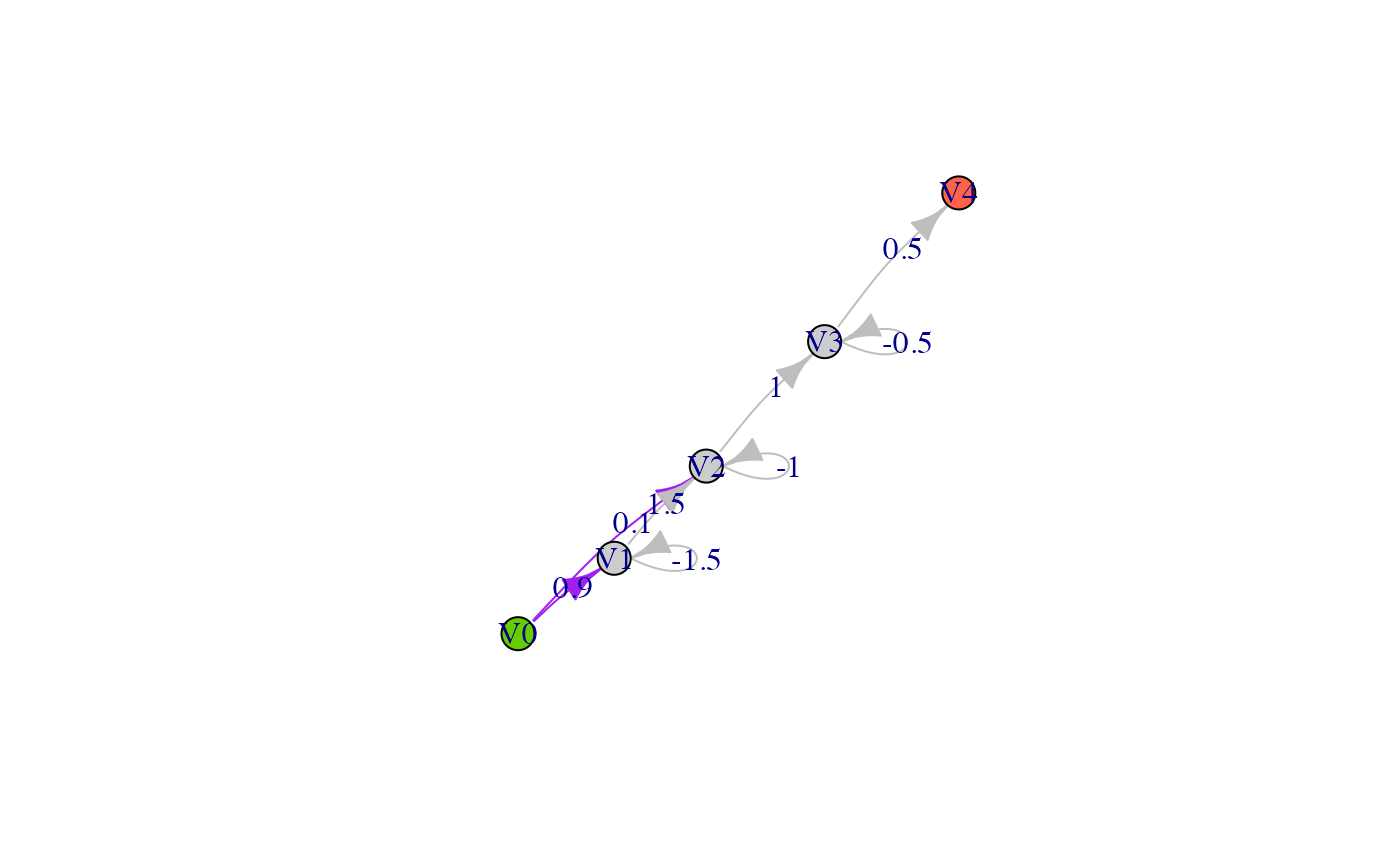
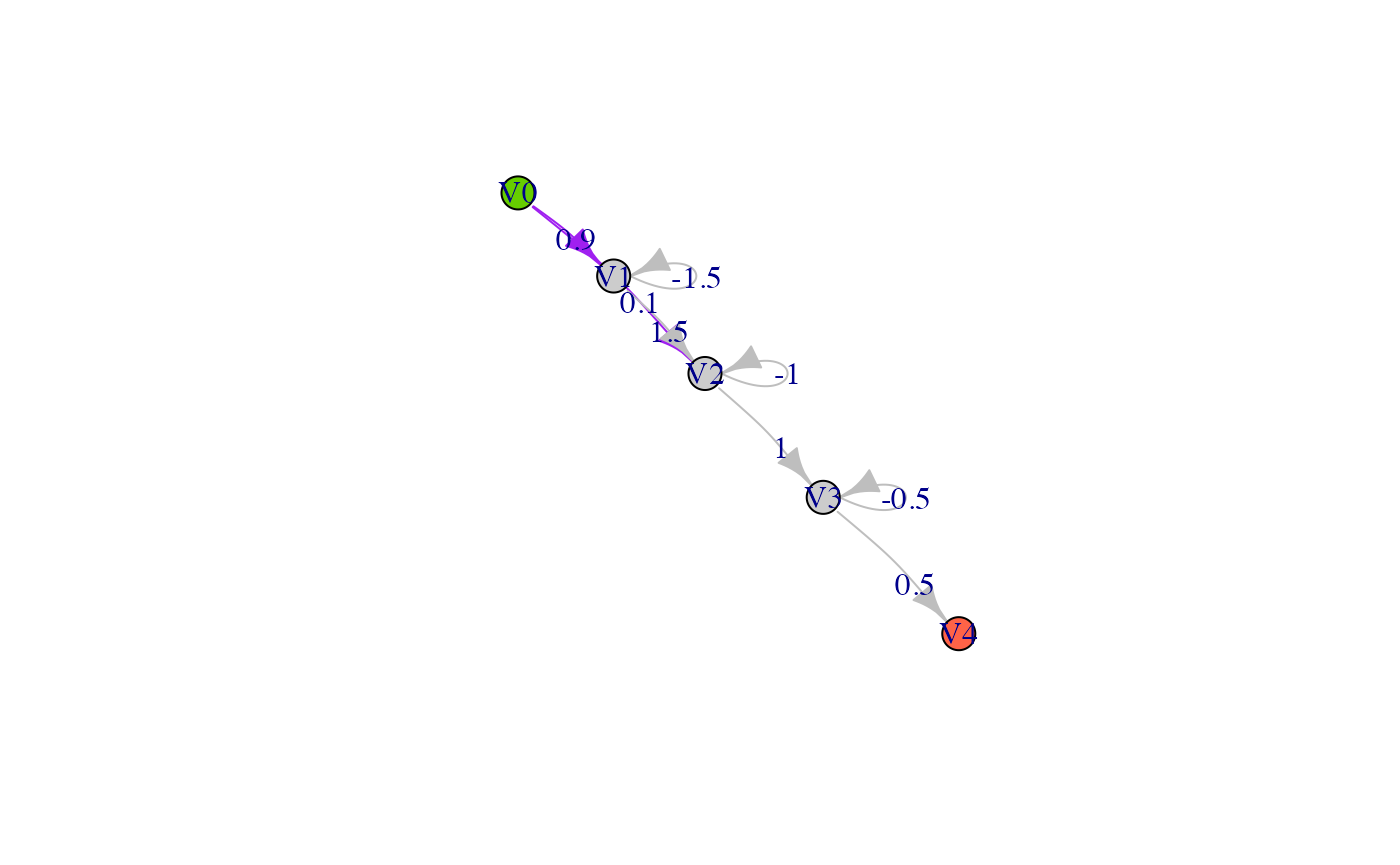
Built site for PhaseTypeR: 1.0.0@f5eaad8

diff --git a/reference/MPH_functions.html b/reference/MPH_functions.html
@@ -40,7 +40,8 @@
 
 
 <meta property="og:title" content="The Multivariate Continuous Phase-Type Distribution — MPH_functions" />
-<meta property="og:description" content="The Multivariate Continuous Phase-Type Distribution" />
+<meta property="og:description" content="Density, distribution function, quantile function and random generation
+for the multivariate continuous phase-type distribution." />
 
 
 
@@ -132,7 +133,8 @@
     </div>
 
     <div class="ref-description">
-    <p>The Multivariate Continuous Phase-Type Distribution</p>
+    <p>Density, distribution function, quantile function and random generation
+for the multivariate continuous phase-type distribution.</p>
     </div>
 
     <pre class="usage"><span class='fu'>dMPH</span><span class='op'>(</span><span class='va'>x</span>, <span class='va'>obj</span><span class='op'>)</span>
@@ -173,19 +175,17 @@ the number required.</p></td>
 distribution function, <code>qMPH</code> gives the quantile function,
 and <code>rMPH</code> generates random deviates. <code>rFullMPH</code> returns
 the full path of a random draw from the distribution.</p>
+<p>Each row of the result of For <code>dMPH</code>, <code>pMPH</code>, <code>qMPH</code>, and
+<code>rMPH</code> corresponds to each univariate reward transformation.
+For <code>dMDPH</code>, <code>qMDPH</code> and <code>pMDPH</code>, the inputs <code>x</code>,
+<code>p</code> and <code>q</code> can be matrices where in row i the i_th reward
+transformation and in col j the j_th value of <code>x</code>, <code>p</code> or <code>q</code>
+tested.</p>
 <p>The length of the result is determined by <code>n</code> for <code>rMPH</code>,
 and is the maximum of the lengths of the numerical arguments for the other
 functions.</p>
 <p>The numerical arguments other than <code>n</code> are recycled to the length of the
 result. Only the first elements of the logical arguments are used.</p>
-    <h2 class="hasAnchor" id="details"><a class="anchor" href="#details"></a>Details</h2>
-
-    <p>If the object provided is multivariate, each row of the result will
-corresponds to each univariate reward transformation.
-For <code>dMPH</code>, <code>qMPH</code> and <code>pMPH</code>, the inputs <code>x</code>,
-<code>p</code> and <code>q</code> can be matrices where in row i the i_th reward
-transformation and in col j the j_th value of <code>x</code>, <code>p</code> or <code>q</code>
-tested.</p>
     <h2 class="hasAnchor" id="functions"><a class="anchor" href="#functions"></a>Functions</h2>
 
     
@@ -230,18 +230,18 @@ tested.</p>
 <span class='r-out co'><span class='r-pr'>#&gt;</span> [2,] 1.0850215</span>
 <span class='r-out co'><span class='r-pr'>#&gt;</span> [3,] 4.3387820</span>
 <span class='r-out co'><span class='r-pr'>#&gt;</span> [4,] 2.1700430</span>
+<span class='r-in'><span class='fu'><a href='https://rdrr.io/r/base/Random.html'>set.seed</a></span><span class='op'>(</span><span class='fl'>0</span><span class='op'>)</span></span>
 <span class='r-in'><span class='fu'>rMPH</span><span class='op'>(</span><span class='fl'>6</span>, <span class='va'>Y</span><span class='op'>)</span></span>
-<span class='r-out co'><span class='r-pr'>#&gt;</span>           [,1]      [,2]      [,3]        [,4]      [,5]      [,6]</span>
-<span class='r-out co'><span class='r-pr'>#&gt;</span> [1,] 2.1279845 1.5157751 0.3156561  0.04501985 6.4191873 1.6909782</span>
-<span class='r-out co'><span class='r-pr'>#&gt;</span> [2,] 0.2185985 0.4969989 2.1483953  1.44114625 0.7718868 0.7594132</span>
-<span class='r-out co'><span class='r-pr'>#&gt;</span> [3,] 2.7862917 5.2341151 2.3427340 14.07400143 6.8471196 1.4093316</span>
-<span class='r-out co'><span class='r-pr'>#&gt;</span> [4,] 7.2556290 0.7600015 0.3512190  1.35886126 1.8445677 5.8881335</span>
+<span class='r-out co'><span class='r-pr'>#&gt;</span>           [,1]       [,2]      [,3]      [,4]      [,5]      [,6]</span>
+<span class='r-out co'><span class='r-pr'>#&gt;</span> [1,] 0.7551818  0.1457067 1.9997498 0.4360686 2.0340910 0.3740457</span>
+<span class='r-out co'><span class='r-pr'>#&gt;</span> [2,] 1.2346425  1.0012151 0.6616294 0.7350846 0.5667907 1.2148449</span>
+<span class='r-out co'><span class='r-pr'>#&gt;</span> [3,] 8.0114387 16.6284262 8.9418594 5.4812071 3.9179274 0.7160464</span>
+<span class='r-out co'><span class='r-pr'>#&gt;</span> [4,] 5.0815599  2.7447191 3.1889157 2.7062132 0.8113041 1.3580180</span>
 <span class='r-in'><span class='fu'>rFullMPH</span><span class='op'>(</span><span class='va'>Y</span><span class='op'>)</span></span>
-<span class='r-out co'><span class='r-pr'>#&gt;</span>   state       time  reward_1   reward_2   reward_3  reward_4</span>
-<span class='r-out co'><span class='r-pr'>#&gt;</span> 1     1 0.75707302 0.0000000 0.75707302 0.75707302 1.5141460</span>
-<span class='r-out co'><span class='r-pr'>#&gt;</span> 2     3 0.76829630 0.0000000 0.76829630 7.68296303 1.5365926</span>
-<span class='r-out co'><span class='r-pr'>#&gt;</span> 3     1 0.06482699 0.0000000 0.06482699 0.06482699 0.1296540</span>
-<span class='r-out co'><span class='r-pr'>#&gt;</span> 4     2 0.41251524 0.8250305 0.41251524 2.06257619 0.8250305</span>
+<span class='r-out co'><span class='r-pr'>#&gt;</span>   state       time   reward_1   reward_2   reward_3   reward_4</span>
+<span class='r-out co'><span class='r-pr'>#&gt;</span> 1     1 0.32166731 0.00000000 0.32166731 0.32166731 0.64333461</span>
+<span class='r-out co'><span class='r-pr'>#&gt;</span> 2     3 0.38159000 0.00000000 0.38159000 3.81590005 0.76318001</span>
+<span class='r-out co'><span class='r-pr'>#&gt;</span> 3     2 0.01119789 0.02239578 0.01119789 0.05598945 0.02239578</span>
 <span class='r-in'></span>
 </pre>
   </div>

diff --git a/reference/MDPH_functions.html b/reference/MDPH_functions.html
@@ -40,7 +40,8 @@
 
 
 <meta property="og:title" content="The Multivariate Discrete Phase-Type Distribution — MDPH_functions" />
-<meta property="og:description" content="The Multivariate Discrete Phase-Type Distribution" />
+<meta property="og:description" content="Density, distribution function, quantile function and random generation
+for the multivariate discrete phase-type distribution." />
 
 
 
@@ -132,7 +133,8 @@
     </div>
 
     <div class="ref-description">
-    <p>The Multivariate Discrete Phase-Type Distribution</p>
+    <p>Density, distribution function, quantile function and random generation
+for the multivariate discrete phase-type distribution.</p>
     </div>
 
     <pre class="usage"><span class='fu'>dMDPH</span><span class='op'>(</span><span class='va'>x</span>, <span class='va'>obj</span><span class='op'>)</span>
@@ -173,19 +175,17 @@ the number required.</p></td>
 distribution function, <code>qMDPH</code> gives the quantile function,
 and <code>rMDPH</code> generates random deviates. <code>rFullMDPH</code> returns
 the full path of a random draw from the distribution.</p>
+<p>Each row of the result of For <code>dMDPH</code>, <code>pMDPH</code>, <code>qMDPH</code>, and
+<code>rMDPH</code> corresponds to each univariate reward transformation.
+For <code>dMDPH</code>, <code>qMDPH</code> and <code>pMDPH</code>, the inputs <code>x</code>,
+<code>p</code> and <code>q</code> can be matrices where in row i the i_th reward
+transformation and in col j the j_th value of <code>x</code>, <code>p</code> or <code>q</code>
+tested.</p>
 <p>The length of the result is determined by <code>n</code> for <code>rMDPH</code>,
 and is the maximum of the lengths of the numerical arguments for the other
 functions.</p>
 <p>The numerical arguments other than <code>n</code> are recycled to the length of the
 result. Only the first elements of the logical arguments are used.</p>
-    <h2 class="hasAnchor" id="details"><a class="anchor" href="#details"></a>Details</h2>
-
-    <p>If the object provided is multivariate, each row of the result will
-corresponds to each univariate reward transformation.
-For <code>dMDPH</code>, <code>qMDPH</code> and <code>pMDPH</code>, the inputs <code>x</code>,
-<code>p</code> and <code>q</code> can be matrices where in row i the i_th reward
-transformation and in col j the j_th value of <code>x</code>, <code>p</code> or <code>q</code>
-tested.</p>
     <h2 class="hasAnchor" id="functions"><a class="anchor" href="#functions"></a>Functions</h2>
 
     
@@ -231,16 +231,17 @@ tested.</p>
 <span class='r-out co'><span class='r-pr'>#&gt;</span> [2,]   13</span>
 <span class='r-out co'><span class='r-pr'>#&gt;</span> [3,]   13</span>
 <span class='r-out co'><span class='r-pr'>#&gt;</span> [4,]   10</span>
+<span class='r-in'><span class='fu'><a href='https://rdrr.io/r/base/Random.html'>set.seed</a></span><span class='op'>(</span><span class='fl'>0</span><span class='op'>)</span></span>
 <span class='r-in'><span class='fu'>rMDPH</span><span class='op'>(</span><span class='fl'>6</span>, <span class='va'>Y</span><span class='op'>)</span></span>
 <span class='r-out co'><span class='r-pr'>#&gt;</span>      [,1] [,2] [,3] [,4] [,5] [,6]</span>
-<span class='r-out co'><span class='r-pr'>#&gt;</span> [1,]    4    2    5    4    0    2</span>
-<span class='r-out co'><span class='r-pr'>#&gt;</span> [2,]   20   15   15   21    6   19</span>
-<span class='r-out co'><span class='r-pr'>#&gt;</span> [3,]   12   22   11   33   23   32</span>
-<span class='r-out co'><span class='r-pr'>#&gt;</span> [4,]   15    8   12   13   17   22</span>
+<span class='r-out co'><span class='r-pr'>#&gt;</span> [1,]    0    9   14    2    0    4</span>
+<span class='r-out co'><span class='r-pr'>#&gt;</span> [2,]   26   21   19   24   15   15</span>
+<span class='r-out co'><span class='r-pr'>#&gt;</span> [3,]   32    0   68   12   11   21</span>
+<span class='r-out co'><span class='r-pr'>#&gt;</span> [4,]   24    6    6   14    8   12</span>
 <span class='r-in'><span class='fu'>rFullMDPH</span><span class='op'>(</span><span class='va'>Y</span><span class='op'>)</span></span>
 <span class='r-out co'><span class='r-pr'>#&gt;</span>   state time reward_1 reward_2 reward_3 reward_4</span>
-<span class='r-out co'><span class='r-pr'>#&gt;</span> 1     1    3        0        6        0        3</span>
-<span class='r-out co'><span class='r-pr'>#&gt;</span> 2     2    1        1        1        1        2</span>
+<span class='r-out co'><span class='r-pr'>#&gt;</span> 1     1    2        0        4        0        2</span>
+<span class='r-out co'><span class='r-pr'>#&gt;</span> 2     2    2        2        2        2        4</span>
 <span class='r-out co'><span class='r-pr'>#&gt;</span> 3     3    1        1        5       10        3</span>
 <span class='r-in'></span>
 </pre>

diff --git a/reference/phase_type_to_network.html b/reference/phase_type_to_network.html
@@ -157,6 +157,19 @@ igraph graph object.</p>
 
     <p>An igraph graph object of the phase-type distribution.</p>
 
+    <h2 class="hasAnchor" id="examples"><a class="anchor" href="#examples"></a>Examples</h2>
+    <pre class="examples"><span class='r-in'></span>
+<span class='r-in'><span class='va'>cont_phase_type</span> <span class='op'>&lt;-</span> <span class='fu'><a href='https://rdrr.io/r/base/matrix.html'>matrix</a></span><span class='op'>(</span><span class='fu'><a href='https://rdrr.io/r/base/c.html'>c</a></span><span class='op'>(</span><span class='op'>-</span><span class='fl'>3</span>, <span class='fl'>0</span>, <span class='fl'>1</span>,</span>
+<span class='r-in'>                            <span class='fl'>2</span>, <span class='op'>-</span><span class='fl'>3</span>, <span class='fl'>1</span>,</span>
+<span class='r-in'>                            <span class='fl'>1</span>, <span class='fl'>1</span>, <span class='op'>-</span><span class='fl'>2</span><span class='op'>)</span>, ncol <span class='op'>=</span> <span class='fl'>3</span><span class='op'>)</span></span>
+<span class='r-in'><span class='va'>Y</span> <span class='op'>&lt;-</span> <span class='fu'><a href='generator_functions.html'>PH</a></span><span class='op'>(</span><span class='va'>cont_phase_type</span><span class='op'>)</span></span>
+<span class='r-wrn co'><span class='r-pr'>#&gt;</span> <span class='warning'>Warning: </span></span>
+<span class='r-wrn co'><span class='r-pr'>#&gt;</span>  The initial probability vector is automatically generated.</span>
+<span class='r-in'><span class='va'>Y_network</span> <span class='op'>&lt;-</span> <span class='fu'>phase_type_to_network</span><span class='op'>(</span><span class='va'>Y</span><span class='op'>)</span></span>
+<span class='r-in'><span class='fu'><a href='https://rdrr.io/r/graphics/plot.default.html'>plot</a></span><span class='op'>(</span><span class='va'>Y_network</span><span class='op'>)</span></span>
+<span class='r-plt img'><img src='phase_type_to_network-1.png' alt='' width='700' height='433' /></span>
+<span class='r-in'></span>
+</pre>
   </div>
   <div class="col-md-3 hidden-xs hidden-sm" id="pkgdown-sidebar">
     <nav id="toc" data-toggle="toc" class="sticky-top">

diff --git a/index.html b/index.html
@@ -12,7 +12,13 @@
 <link rel="stylesheet" href="https://cdnjs.cloudflare.com/ajax/libs/font-awesome/5.12.1/css/v4-shims.min.css" integrity="sha256-wZjR52fzng1pJHwx4aV2AO3yyTOXrcDW7jBpJtTwVxw=" crossorigin="anonymous">
 <!-- clipboard.js --><script src="https://cdnjs.cloudflare.com/ajax/libs/clipboard.js/2.0.6/clipboard.min.js" integrity="sha256-inc5kl9MA1hkeYUt+EC3BhlIgyp/2jDIyBLS6k3UxPI=" crossorigin="anonymous"></script><!-- headroom.js --><script src="https://cdnjs.cloudflare.com/ajax/libs/headroom/0.11.0/headroom.min.js" integrity="sha256-AsUX4SJE1+yuDu5+mAVzJbuYNPHj/WroHuZ8Ir/CkE0=" crossorigin="anonymous"></script><script src="https://cdnjs.cloudflare.com/ajax/libs/headroom/0.11.0/jQuery.headroom.min.js" integrity="sha256-ZX/yNShbjqsohH1k95liqY9Gd8uOiE1S4vZc+9KQ1K4=" crossorigin="anonymous"></script><!-- pkgdown --><link href="pkgdown.css" rel="stylesheet">
 <script src="pkgdown.js"></script><meta property="og:title" content="General-Purpose Phase-Type Functions">
-<meta property="og:description" content="Need to write description of package.">
+<meta property="og:description" content="General implementarion of core function from phase-type theory. 
+    PhaseTypeR can be used to model continuous and discrete phase-type 
+    distributions, both univariate and multivariate. The package includes 
+    functions for outputting the mean and (co)variance of phase-type 
+    distributions; their density, probability and quantile functions; 
+    functions for random draws; functions for reward-transformation; 
+    and functions for plotting the distributions as networks.">
 <!-- mathjax --><script src="https://cdnjs.cloudflare.com/ajax/libs/mathjax/2.7.5/MathJax.js" integrity="sha256-nvJJv9wWKEm88qvoQl9ekL2J+k/RWIsaSScxxlsrv8k=" crossorigin="anonymous"></script><script src="https://cdnjs.cloudflare.com/ajax/libs/mathjax/2.7.5/config/TeX-AMS-MML_HTMLorMML.js" integrity="sha256-84DKXVJXs0/F8OTMzX4UR909+jtl4G7SPypPavF+GfA=" crossorigin="anonymous"></script><!--[if lt IE 9]>
 <script src="https://oss.maxcdn.com/html5shiv/3.7.3/html5shiv.min.js"></script>
 <script src="https://oss.maxcdn.com/respond/1.4.2/respond.min.js"></script>

diff --git a/reference/PH_functions.html b/reference/PH_functions.html
@@ -40,7 +40,8 @@
 
 
 <meta property="og:title" content="The Univariate Continuous Phase-Type Distribution — PH_functions" />
-<meta property="og:description" content="The Univariate Continuous Phase-Type Distribution" />
+<meta property="og:description" content="Density, distribution function, quantile function and random generation
+for the univariate continuous phase-type distribution." />
 
 
 
@@ -132,7 +133,8 @@
     </div>
 
     <div class="ref-description">
-    <p>The Univariate Continuous Phase-Type Distribution</p>
+    <p>Density, distribution function, quantile function and random generation
+for the univariate continuous phase-type distribution.</p>
     </div>
 
     <pre class="usage"><span class='fu'>dPH</span><span class='op'>(</span><span class='va'>x</span>, <span class='va'>obj</span><span class='op'>)</span>
@@ -178,14 +180,6 @@ and is the maximum of the lengths of the numerical arguments for the other
 functions.</p>
 <p>The numerical arguments other than <code>n</code> are recycled to the length of the
 result. Only the first elements of the logical arguments are used.</p>
-    <h2 class="hasAnchor" id="details"><a class="anchor" href="#details"></a>Details</h2>
-
-    <p>If the object provided is multivariate, each row of the result will
-corresponds to each univariate reward transformation.
-For <code>dPH</code>, <code>qPH</code> and <code>pPH</code>, the inputs <code>x</code>,
-<code>p</code> and <code>q</code> can be matrices where in row i the i_th reward
-transformation and in col j the j_th value of <code>x</code>, <code>p</code> or <code>q</code>
-tested.</p>
     <h2 class="hasAnchor" id="functions"><a class="anchor" href="#functions"></a>Functions</h2>
 
     

diff --git a/reference/DPH_functions.html b/reference/DPH_functions.html
@@ -40,7 +40,8 @@
 
 
 <meta property="og:title" content="The Univariate Discrete Phase-Type Distribution — DPH_functions" />
-<meta property="og:description" content="The Univariate Discrete Phase-Type Distribution" />
+<meta property="og:description" content="Density, distribution function, quantile function and random generation
+for the univariate discrete phase-type distribution." />
 
 
 
@@ -132,7 +133,8 @@
     </div>
 
     <div class="ref-description">
-    <p>The Univariate Discrete Phase-Type Distribution</p>
+    <p>Density, distribution function, quantile function and random generation
+for the univariate discrete phase-type distribution.</p>
     </div>
 
     <pre class="usage"><span class='fu'>dDPH</span><span class='op'>(</span><span class='va'>x</span>, <span class='va'>obj</span><span class='op'>)</span>
@@ -178,14 +180,6 @@ and is the maximum of the lengths of the numerical arguments for the other
 functions.</p>
 <p>The numerical arguments other than <code>n</code> are recycled to the length of the
 result. Only the first elements of the logical arguments are used.</p>
-    <h2 class="hasAnchor" id="details"><a class="anchor" href="#details"></a>Details</h2>
-
-    <p>If the object provided is multivariate, each row of the result will
-corresponds to each univariate reward transformation.
-For <code>dDPH</code>, <code>qDPH</code> and <code>pDPH</code>, the inputs <code>x</code>,
-<code>p</code> and <code>q</code> can be matrices where in row i the i_th reward
-transformation and in col j the j_th value of <code>x</code>, <code>p</code> or <code>q</code>
-tested.</p>
     <h2 class="hasAnchor" id="functions"><a class="anchor" href="#functions"></a>Functions</h2>
 
     

diff --git a/articles/PhaseTypeR.html b/articles/PhaseTypeR.html
@@ -316,8 +316,8 @@ F(u) = 1-\boldsymbol{\pi}e^{\boldsymbol{T}u}\boldsymbol{e}, \quad u\ge0.
 <div class="sourceCode" id="cb12"><pre class="downlit sourceCode r">
 <code class="sourceCode R"><span class="fu"><a href="https://rdrr.io/r/base/cat.html">cat</a></span><span class="op">(</span><span class="st">'10 random samples: \n'</span>, <span class="fu"><a href="../reference/PH_functions.html">rPH</a></span><span class="op">(</span><span class="fl">5</span>, <span class="va">ph</span><span class="op">)</span>, <span class="st">'\n'</span>, <span class="fu"><a href="../reference/PH_functions.html">rPH</a></span><span class="op">(</span><span class="fl">5</span>, <span class="va">ph</span><span class="op">)</span><span class="op">)</span>
 <span class="co">#&gt; 10 random samples: </span>
-<span class="co">#&gt;  1.118102 12.35223 1.289928 3.033539 7.840073 </span>
-<span class="co">#&gt;  3.6253 2.879422 5.082144 3.128381 3.951244</span></code></pre></div>
+<span class="co">#&gt;  1.965557 1.328603 0.9881177 2.678605 5.874924 </span>
+<span class="co">#&gt;  3.048691 4.601803 5.68699 5.741406 3.671069</span></code></pre></div>
 <p>Here is a histogram of 200 samples from the phase-type distribution:</p>
 <div class="sourceCode" id="cb13"><pre class="downlit sourceCode r">
 <code class="sourceCode R"><span class="fu"><a href="https://rdrr.io/r/graphics/hist.html">hist</a></span><span class="op">(</span><span class="fu"><a href="../reference/PH_functions.html">rPH</a></span><span class="op">(</span><span class="fl">500</span>, <span class="va">ph</span><span class="op">)</span>, breaks <span class="op">=</span> <span class="fl">10</span><span class="op">)</span></code></pre></div>

diff --git a/reference/var.html b/reference/var.html
@@ -207,14 +207,14 @@ different usages can be distinguished:</p><ul>
 <span class='r-in'><span class='co'>## Variance-covariance matrix</span></span>
 <span class='r-in'><span class='fu'>var</span><span class='op'>(</span><span class='va'>ph2</span><span class='op'>)</span></span>
 <span class='r-out co'><span class='r-pr'>#&gt;</span>          [,1]     [,2]</span>
-<span class='r-out co'><span class='r-pr'>#&gt;</span> [1,] 18.11111 19.22222</span>
-<span class='r-out co'><span class='r-pr'>#&gt;</span> [2,] 19.22222 74.66667</span>
+<span class='r-out co'><span class='r-pr'>#&gt;</span> [1,] 19.33333 30.94444</span>
+<span class='r-out co'><span class='r-pr'>#&gt;</span> [2,] 30.94444 57.66667</span>
 <span class='r-in'><span class='co'>## Variance for the first state in the reward matrix</span></span>
 <span class='r-in'><span class='fu'>var</span><span class='op'>(</span><span class='va'>ph2</span>, <span class='fl'>1</span><span class='op'>)</span></span>
-<span class='r-out co'><span class='r-pr'>#&gt;</span> [1] 18.11111</span>
+<span class='r-out co'><span class='r-pr'>#&gt;</span> [1] 19.33333</span>
 <span class='r-in'><span class='co'>## Variance for the second state in the reward matrix</span></span>
 <span class='r-in'><span class='fu'>var</span><span class='op'>(</span><span class='va'>ph2</span>, <span class='fl'>2</span><span class='op'>)</span></span>
-<span class='r-out co'><span class='r-pr'>#&gt;</span> [1] 74.66667</span>
+<span class='r-out co'><span class='r-pr'>#&gt;</span> [1] 57.66667</span>
 <span class='r-in'></span>
 </pre>
   </div>
